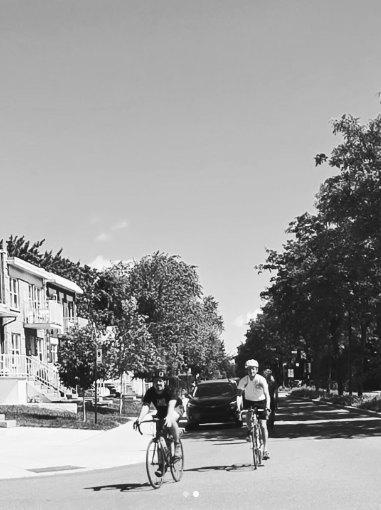
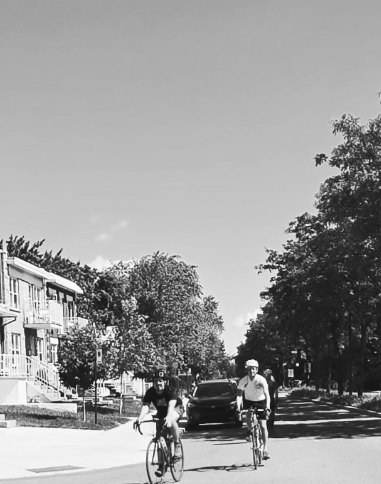
Galerie : deux nouvelles photos du club, retrait des photos d'archive
Claude-Session: https://claude.ai/code/session_01URydBgeVCBtivUas7Fdfna

Changed region(s): [[0.0, 0.186, 1.0, 1.0]]

diff --git a/admin.html b/admin.html
@@ -1,1 +1,1 @@
-<!doctype html><html lang="fr-CA"><head><meta charset="utf-8"><meta name="viewport" content="width=device-width,initial-scale=1"><meta name="robots" content="noindex,nofollow"><meta name="description" content="Club cycliste de Tétreaultville. Sorties sur route et gravel, no drop, pour tout le monde. Programmation, règles du club et sorties improvisées."><title>Administration · Tétro.cc</title><link rel="icon" href="/favicon.ico" sizes="any"><link rel="icon" type="image/png" href="/favicon-64.png"><link rel="apple-touch-icon" href="/apple-touch-icon.png"><meta property="og:type" content="website"><meta property="og:site_name" content="Tétro.cc"><meta property="og:locale" content="fr_CA"><meta property="og:title" content="Administration · Tétro.cc"><meta property="og:description" content="Club cycliste de Tétreaultville. Sorties sur route et gravel, no drop, pour tout le monde. Programmation, règles du club et sorties improvisées."><meta property="og:url" content="https://tetrocc.vercel.app/admin"><meta property="og:image" content="https://tetrocc.vercel.app/og-image.jpg"><meta property="og:image:width" content="1200"><meta property="og:image:height" content="630"><meta property="og:image:alt" content="Le groupe du Tétro.cc devant le M café"><meta name="twitter:card" content="summary_large_image"></head><body><header class="header wrap"><a class="brand" href="/"><span class="brand-name">tétro.cc</span><span class="brand-sub">ADMINISTRATION</span></a><a class="eyebrow" href="/">← Voir le site</a></header><main class="admin wrap"><span class="eyebrow">Espace organisateurs</span><h1>Les sorties.</h1><p class="muted">Créer, modifier et publier les rendez-vous du club.</p><div id="setup" class="notice hidden"></div><section id="login" class="login hidden"><h2>Connexion</h2><form id="login-form"><label class="field">Adresse courriel<input name="email" type="email" autocomplete="email" required></label><label class="field">Mot de passe<input name="password" type="password" autocomplete="current-password" required></label><button class="button">Se connecter →</button></form></section><section id="dashboard" class="hidden"><div class="actions"><button class="button" id="new">+ Nouvelle sortie</button><button class="button secondary" id="logout">Déconnexion</button></div><div class="admin-layout"><aside><h2>Sorties</h2><div id="admin-list" class="admin-list"></div></aside><section><h2 id="form-title">Nouvelle sortie</h2><form id="ride-form"><div class="form-grid"><label class="field">Titre<input name="title" required placeholder="Oka"></label><label class="field">Identifiant URL<input name="slug" required placeholder="oka-2027" pattern="[a-z0-9-]+"></label><label class="field">Date<input name="ride_date" type="date" required></label><label class="field">Heure de départ<input name="start_time" type="time"></label><label class="field">Lieu de rencontre<input name="meeting_point" list="meeting-points" placeholder="M Café | 9079 Rue Hochelaga"><datalist id="meeting-points"><option value="M Café | 9079 Rue Hochelaga"></option></datalist></label><label class="field">Distance (km)<input name="distance_km" type="number" min="0" step="0.1"></label><label class="field check wide"><span class="check-row"><input type="checkbox" name="two_groups"> 2 groupes de vitesse</span></label><label class="field"><span id="pace-label">Rythme</span><select name="pace"><option value="">À confirmer</option><option value="24-26 km/h">24-26 km/h</option><option value="26-28 km/h">26-28 km/h</option><option value="28-30 km/h">28-30 km/h</option><option value="30 km/h +">30 km/h +</option></select></label><label class="field hidden" id="pace2-field">Rythme du groupe 2<select name="pace_2"><option value="">À confirmer</option><option value="24-26 km/h">24-26 km/h</option><option value="26-28 km/h">26-28 km/h</option><option value="28-30 km/h">28-30 km/h</option><option value="30 km/h +">30 km/h +</option></select></label><label class="field wide">Lien Ride with GPS ou ID de parcours<input name="rwgps_route_id" placeholder="https://ridewithgps.com/routes/57071272"></label><label class="field">Statut<select name="status"><option value="draft">Brouillon</option><option value="published">Publiée</option><option value="cancelled">Annulée</option></select></label><label class="field">Image de couverture<select name="image_url"><option value="/assets/club-groupe.jpg">Photo du club</option><option value="/assets/archive-velo-v2.jpg">Archive vélo</option><option value="/assets/archive-duo-v2.jpg">Archive duo</option><option value="/assets/archive-enfant.jpg">Archive enfant</option><option value="/assets/club.jpg">Devant le café</option><option value="/assets/quartier.jpg">Dans le quartier</option></select></label><label class="field wide">Description<textarea name="description"></textarea></label><label class="field wide">Ajouter une photo de couverture (facultatif)<input type="file" name="photo" accept="image/png,image/jpeg,image/webp"></label></div><div class="actions"><button class="button" type="submit">Enregistrer la sortie →</button><button class="button secondary danger hidden" type="button" id="delete">Supprimer</button></div></form><p id="feedback" class="message" role="status"></p></section></div><hr><h2>Questions reçues <span id="q-count" class="count-badge hidden"></span></h2><p class="muted">Les questions envoyées par le formulaire du site. Réponds par courriel, puis marque-les comme répondues.</p><div id="questions" class="questions"></div><hr><h2>Photos du club</h2><p class="muted">Ajoute une photo à la galerie du club (affichée sous les sorties sur le site).</p><form id="photo-form" class="actions"><input type="file" name="photo" accept="image/png,image/jpeg,image/webp" required><input name="caption" placeholder="Légende (facultative)" aria-label="Légende"><button class="button">Ajouter une photo</button></form><div id="gallery" class="gallery"></div><h2>Infos du club</h2><form id="settings-form"><label class="field">Courriel de contact<input name="contact_email" type="email" placeholder="francois@latelierducontenu.com"></label><label class="field wide">Présentation du club<textarea name="about_text"></textarea></label><div class="actions"><button class="button">Enregistrer les infos</button></div></form></section></main><script type="module" src="/src/admin.js"></script></body></html>
+<!doctype html><html lang="fr-CA"><head><meta charset="utf-8"><meta name="viewport" content="width=device-width,initial-scale=1"><meta name="robots" content="noindex,nofollow"><meta name="description" content="Club cycliste de Tétreaultville. Sorties sur route et gravel, no drop, pour tout le monde. Programmation, règles du club et sorties improvisées."><title>Administration · Tétro.cc</title><link rel="icon" href="/favicon.ico" sizes="any"><link rel="icon" type="image/png" href="/favicon-64.png"><link rel="apple-touch-icon" href="/apple-touch-icon.png"><meta property="og:type" content="website"><meta property="og:site_name" content="Tétro.cc"><meta property="og:locale" content="fr_CA"><meta property="og:title" content="Administration · Tétro.cc"><meta property="og:description" content="Club cycliste de Tétreaultville. Sorties sur route et gravel, no drop, pour tout le monde. Programmation, règles du club et sorties improvisées."><meta property="og:url" content="https://tetrocc.vercel.app/admin"><meta property="og:image" content="https://tetrocc.vercel.app/og-image.jpg"><meta property="og:image:width" content="1200"><meta property="og:image:height" content="630"><meta property="og:image:alt" content="Le groupe du Tétro.cc devant le M café"><meta name="twitter:card" content="summary_large_image"></head><body><header class="header wrap"><a class="brand" href="/"><span class="brand-name">tétro.cc</span><span class="brand-sub">ADMINISTRATION</span></a><a class="eyebrow" href="/">← Voir le site</a></header><main class="admin wrap"><span class="eyebrow">Espace organisateurs</span><h1>Les sorties.</h1><p class="muted">Créer, modifier et publier les rendez-vous du club.</p><div id="setup" class="notice hidden"></div><section id="login" class="login hidden"><h2>Connexion</h2><form id="login-form"><label class="field">Adresse courriel<input name="email" type="email" autocomplete="email" required></label><label class="field">Mot de passe<input name="password" type="password" autocomplete="current-password" required></label><button class="button">Se connecter →</button></form></section><section id="dashboard" class="hidden"><div class="actions"><button class="button" id="new">+ Nouvelle sortie</button><button class="button secondary" id="logout">Déconnexion</button></div><div class="admin-layout"><aside><h2>Sorties</h2><div id="admin-list" class="admin-list"></div></aside><section><h2 id="form-title">Nouvelle sortie</h2><form id="ride-form"><div class="form-grid"><label class="field">Titre<input name="title" required placeholder="Oka"></label><label class="field">Identifiant URL<input name="slug" required placeholder="oka-2027" pattern="[a-z0-9-]+"></label><label class="field">Date<input name="ride_date" type="date" required></label><label class="field">Heure de départ<input name="start_time" type="time"></label><label class="field">Lieu de rencontre<input name="meeting_point" list="meeting-points" placeholder="M Café | 9079 Rue Hochelaga"><datalist id="meeting-points"><option value="M Café | 9079 Rue Hochelaga"></option></datalist></label><label class="field">Distance (km)<input name="distance_km" type="number" min="0" step="0.1"></label><label class="field check wide"><span class="check-row"><input type="checkbox" name="two_groups"> 2 groupes de vitesse</span></label><label class="field"><span id="pace-label">Rythme</span><select name="pace"><option value="">À confirmer</option><option value="24-26 km/h">24-26 km/h</option><option value="26-28 km/h">26-28 km/h</option><option value="28-30 km/h">28-30 km/h</option><option value="30 km/h +">30 km/h +</option></select></label><label class="field hidden" id="pace2-field">Rythme du groupe 2<select name="pace_2"><option value="">À confirmer</option><option value="24-26 km/h">24-26 km/h</option><option value="26-28 km/h">26-28 km/h</option><option value="28-30 km/h">28-30 km/h</option><option value="30 km/h +">30 km/h +</option></select></label><label class="field wide">Lien Ride with GPS ou ID de parcours<input name="rwgps_route_id" placeholder="https://ridewithgps.com/routes/57071272"></label><label class="field">Statut<select name="status"><option value="draft">Brouillon</option><option value="published">Publiée</option><option value="cancelled">Annulée</option></select></label><label class="field">Image de couverture<select name="image_url"><option value="/assets/club-groupe.jpg">Photo du club</option><option value="/assets/archive-velo-v2.jpg">Archive vélo</option><option value="/assets/archive-duo-v2.jpg">Archive duo</option><option value="/assets/archive-enfant.jpg">Archive enfant</option><option value="/assets/club.jpg">Devant le café</option><option value="/assets/quartier.jpg">Dans le quartier</option><option value="/assets/peloton.jpg">En peloton</option><option value="/assets/pause-route.jpg">Pause sur la route</option></select></label><label class="field wide">Description<textarea name="description"></textarea></label><label class="field wide">Ajouter une photo de couverture (facultatif)<input type="file" name="photo" accept="image/png,image/jpeg,image/webp"></label></div><div class="actions"><button class="button" type="submit">Enregistrer la sortie →</button><button class="button secondary danger hidden" type="button" id="delete">Supprimer</button></div></form><p id="feedback" class="message" role="status"></p></section></div><hr><h2>Questions reçues <span id="q-count" class="count-badge hidden"></span></h2><p class="muted">Les questions envoyées par le formulaire du site. Réponds par courriel, puis marque-les comme répondues.</p><div id="questions" class="questions"></div><hr><h2>Photos du club</h2><p class="muted">Ajoute une photo à la galerie du club (affichée sous les sorties sur le site).</p><form id="photo-form" class="actions"><input type="file" name="photo" accept="image/png,image/jpeg,image/webp" required><input name="caption" placeholder="Légende (facultative)" aria-label="Légende"><button class="button">Ajouter une photo</button></form><div id="gallery" class="gallery"></div><h2>Infos du club</h2><form id="settings-form"><label class="field">Courriel de contact<input name="contact_email" type="email" placeholder="francois@latelierducontenu.com"></label><label class="field wide">Présentation du club<textarea name="about_text"></textarea></label><div class="actions"><button class="button">Enregistrer les infos</button></div></form></section></main><script type="module" src="/src/admin.js"></script></body></html>

diff --git a/src/main.js b/src/main.js
@@ -13,7 +13,7 @@ try{
  document.querySelector('#ride-grid').innerHTML=shown.length?shown.map(r=>{const d=dateParts(r.ride_date);return `<article class="ride-card"><a href="${rideUrl(r)}"><div class="ride-img"><img src="${escapeHtml(r.image_url||'/assets/club-groupe.jpg')}" alt="Sortie ${escapeHtml(r.title)}" loading="lazy"><div class="date"><small>${d.weekday}</small><strong>${d.day}</strong><em>${d.month}</em></div></div><h3>${escapeHtml(r.title)}</h3></a><p>${escapeHtml([r.start_time?`${r.start_time.slice(0,5).replace(':',' h ')}`:null,r.distance_km?`${r.distance_km} km`:null,paceLabel(r)].filter(Boolean).join(' · ')||'Détails à confirmer')}</p><a class="card-link" href="${rideUrl(r)}">Voir le parcours →</a></article>`;}).join(''):'<p>Les prochaines sorties seront annoncées ici.</p>';
 }catch(e){document.querySelector('#ride-grid').innerHTML='<p>Les sorties ne sont pas disponibles pour le moment.</p>';console.error(e);}
 
-const staticGallery=[['/assets/club-groupe.jpg','Le groupe'],['/assets/quartier.jpg','Dans le quartier'],['/assets/archive-velo-v2.jpg','Archive']];
+const staticGallery=[['/assets/club-groupe.jpg','Le groupe devant le M café'],['/assets/pause-route.jpg','Pause sur la route'],['/assets/peloton.jpg','En peloton dans le quartier'],['/assets/quartier.jpg','Dans le quartier']];
 document.querySelector('#public-gallery').innerHTML=staticGallery.map(([u,c])=>`<figure><img loading="lazy" src="${u}" alt="${c}"></figure>`).join('');
 if(db){try{const {data:photos}=await db.from('photos').select('image_url,caption').order('created_at',{ascending:false}).limit(9);if(photos?.length)document.querySelector('#public-gallery').innerHTML=photos.map(p=>`<figure><img loading="lazy" src="${escapeHtml(p.image_url)}" alt="${escapeHtml(p.caption||'Photo du club')}"><figcaption>${escapeHtml(p.caption||'')}</figcaption></figure>`).join('');const {data:settings}=await db.from('site_settings').select('contact_email,about_text').eq('id',1).maybeSingle();if(settings?.about_text)document.querySelector('.intro-copy p').textContent=settings.about_text;if(settings?.contact_email){const email=settings.contact_email;document.querySelectorAll('a[href^="mailto:"]').forEach(a=>{const subject=a.href.split('?')[1]||'';a.href=`mailto:${encodeURIComponent(email)}${subject?'?'+subject:''}`;});}}catch(e){console.warn('Photos ou réglages indisponibles',e);}}
 

diff --git a/src/site.css b/src/site.css
@@ -11,3 +11,4 @@
 @media(min-width:768px) and (hover:hover) and (prefers-reduced-motion:no-preference){.hero-image{top:-28%;will-change:transform}}
 .scroll-write .w{opacity:var(--o,1);transition:opacity .12s linear}.js-write .scroll-write .w{--o:.12}
 .collage img,#public-gallery img{cursor:zoom-in;transition:filter .2s,opacity .2s}.collage img:hover,#public-gallery img:hover{opacity:.9}.collage img:focus-visible,#public-gallery img:focus-visible{outline:2px solid var(--ink);outline-offset:3px}.lb-open,.lb-open body{overflow:hidden}.lb{position:fixed;inset:0;z-index:100;background:rgba(17,17,17,.97);display:flex;align-items:center;justify-content:center;padding:60px 80px}.lb[hidden]{display:none}.lb-fig{margin:0;display:flex;flex-direction:column;align-items:center;max-width:100%;max-height:100%}.lb-fig img{max-width:min(1200px,100%);max-height:calc(100vh - 150px);object-fit:contain;filter:grayscale(1)}.lb-fig figcaption{display:flex;justify-content:space-between;gap:20px;width:100%;margin-top:14px;color:#ddd;font:12px var(--mono);letter-spacing:.08em;text-transform:uppercase}.lb-btn{position:absolute;background:transparent;color:#f2f0e9;border:1px solid rgba(242,240,233,.5);border-radius:50%;width:48px;height:48px;font:18px var(--mono);display:flex;align-items:center;justify-content:center}.lb-btn:hover,.lb-btn:focus-visible{background:#f2f0e9;color:#171717;outline:none}.lb-close{top:18px;right:18px}.lb-prev{left:18px;top:50%;transform:translateY(-50%)}.lb-next{right:18px;top:50%;transform:translateY(-50%)}@media(max-width:650px){.lb{padding:70px 12px 90px}.lb-fig img{max-height:calc(100vh - 200px)}.lb-prev,.lb-next{top:auto;bottom:22px;transform:none}.lb-prev{left:calc(50% - 60px)}.lb-next{right:calc(50% - 60px)}}
+#public-gallery{grid-template-columns:repeat(4,1fr)}#public-gallery img{aspect-ratio:3/4}@media(max-width:850px){#public-gallery{grid-template-columns:repeat(2,1fr)}}
